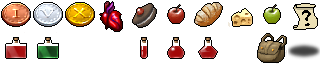
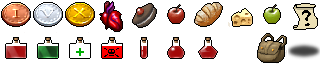
ADD Consumable map and process

diff --git a/src/WitchBlastGame.cpp b/src/WitchBlastGame.cpp
@@ -833,8 +833,8 @@ void WitchBlastGame::playLevel(bool isFight)
 
   new ItemEntity(ItemScrollRevelation, 100, 100);
   new ItemEntity(ItemScrollRevelation, 150, 100);
-  new ItemEntity(ItemPotionGreen, 200, 100);
-  new ItemEntity(ItemPotionRed, 250, 100);
+  new ItemEntity(ItemPotion02, 200, 100);
+  new ItemEntity(ItemPotion01, 250, 100);
   new ItemEntity(ItemBag, 450, 100);
 }
 
@@ -1074,6 +1074,10 @@ void WitchBlastGame::updateRunningGame()
         if (sf::Keyboard::isKeyPressed(sf::Keyboard::LShift))
         {
           player->dropConsumables(event.key.code - sf::Keyboard::Num1);
+        }
+        else
+        {
+          player->tryToConsume(event.key.code - sf::Keyboard::Num1);
         }
       }
 
@@ -2190,7 +2194,7 @@ void WitchBlastGame::renderRunningGame()
       shadow.setPosition(sf::Vector2f(386, 614));
       app->draw(shadow);
     }
-    for (int i = 0; i < MAX_CONSUMIBLES; i++)
+    for (int i = 0; i < MAX_SLOT_CONSUMABLES; i++)
     {
       if (player->getConsumable(i) > -1 && player->getConsumableAmount(i) > 0)
       {
@@ -5144,7 +5148,7 @@ void WitchBlastGame::saveGame()
     file << player->getShotIndex();
     for (i = 0; i < SPECIAL_SHOT_SLOTS; i++) file << " " << player->getShotType(i) << std::endl;
     file << player->getActiveSpell().spell << std::endl;
-    for (i = 0; i < MAX_CONSUMIBLES; i++)
+    for (i = 0; i < MAX_SLOT_CONSUMABLES; i++)
     {
       file << player->getConsumable(i) << " " << player->getConsumableAmount(i) << " ";
     }
@@ -5369,7 +5373,7 @@ bool WitchBlastGame::loadGame()
     file >> n;
     player->setActiveSpell((enumCastSpell)n, saveInFight.isFight);
 
-    for (i = 0; i < MAX_CONSUMIBLES; i++)
+    for (i = 0; i < MAX_SLOT_CONSUMABLES; i++)
     {
       file >> n;
       int amount;
@@ -6832,6 +6836,34 @@ void WitchBlastGame::checkDestroyableObjects()
         new ObstacleEntity(i * TILE_WIDTH + TILE_WIDTH / 2, j * TILE_HEIGHT + TILE_HEIGHT / 2, currentMap->getObjectTile(i, j));
       }
     }
+}
+
+void WitchBlastGame::randomizePotionMap()
+{
+  potionMap.clear();
+  // TODO
+  potionMap[ItemPotion01] = structPotionMap { ItemPotionHealth, false};
+  potionMap[ItemPotion02] = structPotionMap { ItemPotionPoison, false};
+}
+
+void WitchBlastGame::addPotionToMap(enumItemType source, enumItemType effect, bool known)
+{
+  potionMap[source] = structPotionMap { effect, known};
+}
+
+enumItemType WitchBlastGame::getPotion(enumItemType source)
+{
+  return potionMap[source].effect;
+}
+
+bool WitchBlastGame::potionEffectKnown(enumItemType source)
+{
+  return potionMap[source].known;
+}
+
+void WitchBlastGame::setPotionToKnown(enumItemType source)
+{
+  potionMap[source].known = true;
 }
 
 WitchBlastGame &game()

diff --git a/src/PlayerEntity.cpp b/src/PlayerEntity.cpp
@@ -95,7 +95,7 @@ PlayerEntity::PlayerEntity(float x, float y)
   }
 
   // init the consumibles
-  for (int i = 0; i < MAX_CONSUMIBLES; i++)
+  for (int i = 0; i < MAX_SLOT_CONSUMABLES; i++)
   {
     consumable[i] = 0;
     consumableAmount[i] = 0;
@@ -1943,18 +1943,18 @@ void PlayerEntity::acquireItem(enumItemType type)
 
 int PlayerEntity::getConsumable(int n)
 {
-  if (n < 0 || n >= MAX_CONSUMIBLES) return -1;
+  if (n < 0 || n >= MAX_SLOT_CONSUMABLES) return -1;
   else return consumable[n];
 }
 
 int PlayerEntity::getConsumableAmount(int n)
 {
-  if (n < 0 || n >= MAX_CONSUMIBLES) return 0;
+  if (n < 0 || n >= MAX_SLOT_CONSUMABLES) return 0;
   else return consumableAmount[n];
 }
 void PlayerEntity::setConsumable(int n, int type, int amount)
 {
-  if (n < 0 || n >= MAX_CONSUMIBLES) return;
+  if (n < 0 || n >= MAX_SLOT_CONSUMABLES) return;
 
   consumable[n] = type;
   consumableAmount[n] = amount;
@@ -1962,7 +1962,7 @@ void PlayerEntity::setConsumable(int n, int type, int amount)
 
 void PlayerEntity::dropConsumables(int n)
 {
-  if (n < 0 || n >= MAX_CONSUMIBLES) return;
+  if (n < 0 || n >= MAX_SLOT_CONSUMABLES) return;
   if (playerStatus != playerStatusPlaying) return;
 
   if (consumable[n] > -1 && consumableAmount[n] > 0)
@@ -1977,6 +1977,43 @@ void PlayerEntity::dropConsumables(int n)
     consumable[n] = -1;
     consumableAmount[n] = 0;
   }
+}
+
+void PlayerEntity::tryToConsume(int n)
+{
+  if (n < 0 || n >= MAX_SLOT_CONSUMABLES) return;
+  if (playerStatus != playerStatusPlaying) return;
+
+  if (consumable[n] > -1 && consumableAmount[n] > 0)
+  {
+    // unidentified
+    if (consumable[n] >= ItemPotion01 && consumable[n] <ItemPotion01 + CONSUMABLE_MAX)
+    {
+      game().setPotionToKnown((enumItemType)(consumable[n]));
+      consume(game().getPotion((enumItemType)(consumable[n])));
+    }
+    else if (items[consumable[n]].consumable)
+    // known
+    {
+      consume((enumItemType)(consumable[n]));
+    }
+    else
+    {
+      std::cout << "[ERROR] Trying to consume item: " << consumable[n] << std::endl;
+    }
+  }
+
+  consumableAmount[n] --;
+  // last ?
+  if (consumableAmount[n] < 1)
+  {
+    consumable[n] = -1;
+  }
+}
+
+void PlayerEntity::consume(enumItemType item)
+{
+
 }
 
 bool PlayerEntity::canAquireConsumable(enumItemType type)

diff --git a/src/Items.h b/src/Items.h
@@ -61,6 +61,8 @@ const std::string spellLabel[SpellNone] =
   "spell_fairy"
 };
 
+const int CONSUMABLE_MAX = 2;
+
 /** Item type enum
  *  All the items and equipments.
  */
@@ -76,8 +78,12 @@ enum enumItemType
   ItemHealth,
   ItemHealthVerySmallPoison,
   ItemScrollRevelation,
-  ItemPotionRed,
-  ItemPotionGreen,
+  // unidentified potions
+  ItemPotion01,
+  ItemPotion02,
+  // effect
+  ItemPotionHealth,
+  ItemPotionPoison,
 
   ItemMagicianHat,    // first equip item
   ItemLeatherBoots,
@@ -211,18 +217,28 @@ const itemStuct items[NUMBER_ITEMS] =
     ItemHealthVerySmallPoison, "item_apple_green", "item_apple_green_desc",
     2, false, FamiliarNone, true, false, false, 1, RarityCommon, false, -1, ShotTypeStandard, SpellNone, false
   },
-
+  // consumables
   {
     ItemScrollRevelation, "item_scroll_revelation", "item_scroll_revelation_desc",
     10, false, FamiliarNone, true, true, false, 1, RarityCommon, false, -1, ShotTypeStandard, SpellNone, true
   },
+  // potions
   {
-    ItemPotionRed, "item_potion_red", "item_potion_desc",
+    ItemPotion01, "item_potion_01", "item_potion_desc",
     10, false, FamiliarNone, true, true, false, 1, RarityRare, false, -1, ShotTypeStandard, SpellNone, true
   },
   {
-    ItemPotionGreen, "item_potion_green", "item_potion_desc",
+    ItemPotion02, "item_potion_02", "item_potion_desc",
     10, false, FamiliarNone, true, true, false, 1, RarityRare, false, -1, ShotTypeStandard, SpellNone, true
+  },
+  // effect
+  {
+    ItemPotionHealth, "item_potion_health", "item_potion_health_desc",
+    10, false, FamiliarNone, false, false, false, 1, RarityRare, false, -1, ShotTypeStandard, SpellNone, true
+  },
+  {
+    ItemPotionPoison, "item_potion_poison", "item_potion_poison_desc",
+    10, false, FamiliarNone, false, false, false, 1, RarityRare, false, -1, ShotTypeStandard, SpellNone, true
   },
 
 // EQUIP ITEMS //

diff --git a/src/PlayerEntity.h b/src/PlayerEntity.h
@@ -24,7 +24,7 @@ struct divinityStruct
   float percentsToNextLevels;
 };
 
-const int MAX_CONSUMIBLES = 4;
+const int MAX_SLOT_CONSUMABLES = 4;
 
 /*! \class PlayerEntity
 * \brief Class for the player
@@ -510,6 +510,8 @@ class PlayerEntity : public BaseCreatureEntity
     int getConsumableAmount(int n);
     void setConsumable(int n, int type, int amount);
     void dropConsumables(int n);
+    void tryToConsume(int n);
+    void consume(enumItemType item);
 
   protected:
     virtual void readCollidingEntity(CollidingSpriteEntity* entity);
@@ -614,8 +616,8 @@ class PlayerEntity : public BaseCreatureEntity
     float getBolPositionY();
     void incrementDivInterventions();
 
-    int consumable[MAX_CONSUMIBLES];
-    int consumableAmount[MAX_CONSUMIBLES];
+    int consumable[MAX_SLOT_CONSUMABLES];
+    int consumableAmount[MAX_SLOT_CONSUMABLES];
     void acquireConsumable(enumItemType type);
 };
 

diff --git a/src/WitchBlastGame.h b/src/WitchBlastGame.h
@@ -123,6 +123,12 @@ struct parameterStruct
   std::string playerName;     /*!< player name */
 };
 
+struct structPotionMap
+{
+  enumItemType effect;
+  bool known;
+};
+
 /*! \class WitchBlastGame
 * \brief Main class of the game
 *
@@ -439,6 +445,11 @@ public:
   void verifyDoorUnlocking();
   float getGameTime();
   std::string equipToString(bool equip[NUMBER_EQUIP_ITEMS]);
+
+  enumItemType getPotion(enumItemType source);
+  bool potionEffectKnown(enumItemType source);
+  void setPotionToKnown(enumItemType source);
+  void addPotionToMap(enumItemType source, enumItemType effect, bool known);
 
 protected:
   /*!
@@ -1044,6 +1055,9 @@ private:
   void receiveScoreFromServerThread();
 
   void checkDestroyableObjects();
+
+  std::map<enumItemType, structPotionMap> potionMap;
+  void randomizePotionMap();
 };
 
 /*!
